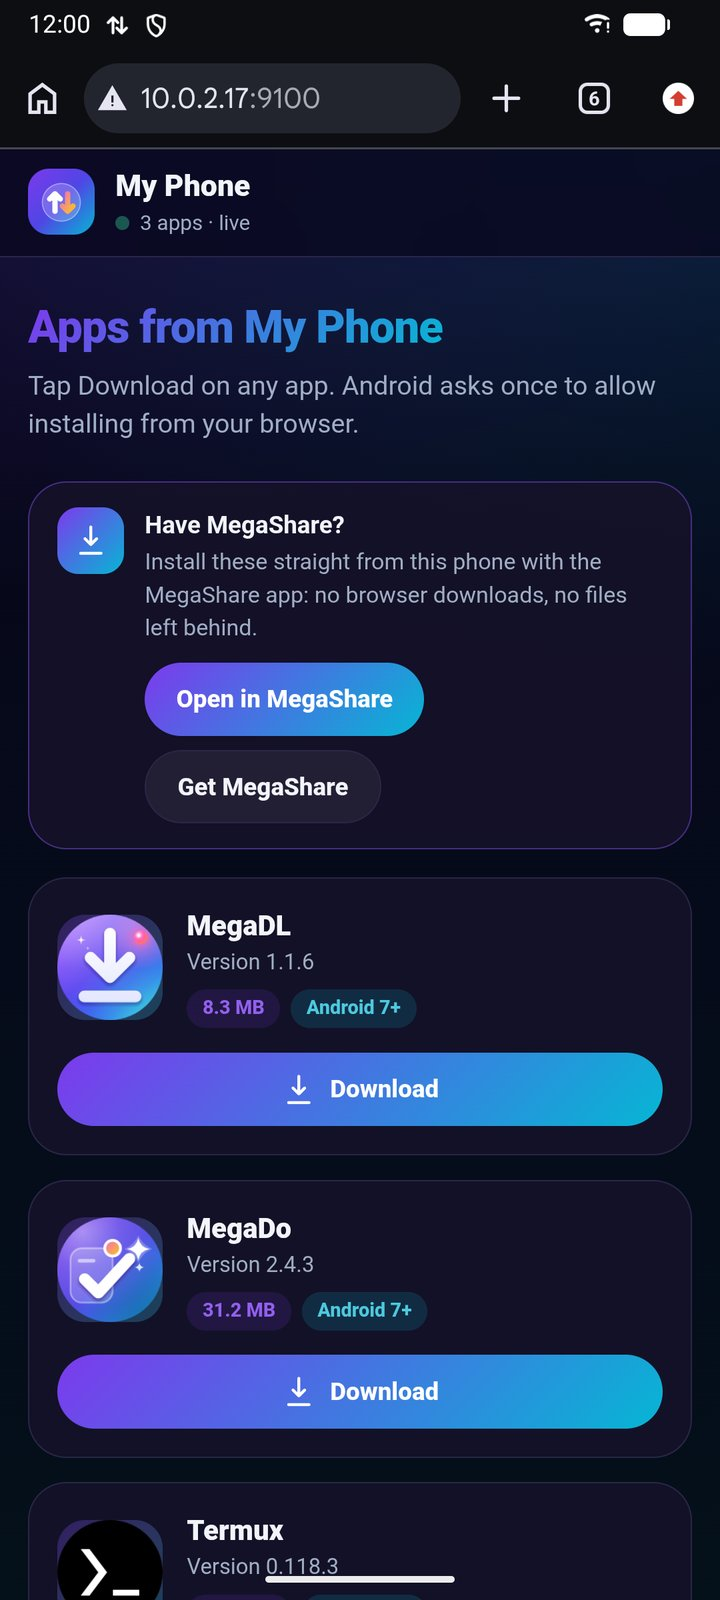
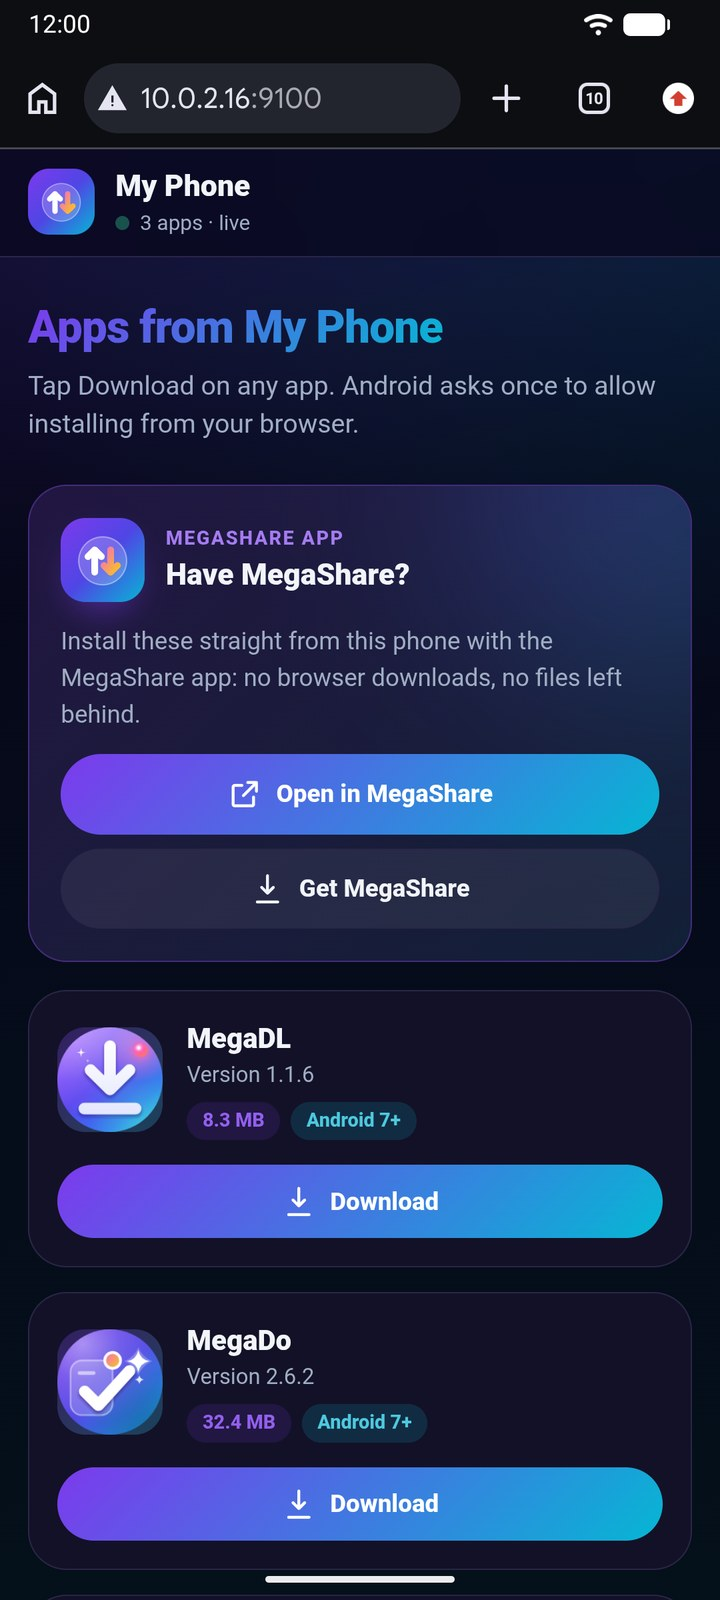
Website and README: share a text, App size, Android 17; new screenshots
- New feature card, FAQ entry (page and FAQPage data) and "How it works" mention
  for sharing a text, link or Wi-Fi password with a Copy button on the page.
- Themes card now covers App size (80-130 %) and the fixed layout scale.
- README features: text sharing, App size, Android 17 local-network access.
- Screenshots: new text.jpg and web-text.jpg; retook setup.jpg (Text option),
  themes.jpg (App size) and apps-web.jpg (redesigned "Have MegaShare?" card).
- llms.txt, llms-full.txt, sitemap and privacy policy (shared text) updated.

diff --git a/index.html b/index.html
@@ -4,8 +4,8 @@
 <meta charset="utf-8">
 <meta name="viewport" content="width=device-width, initial-scale=1">
 <title>MegaShare: Share files and apps from Android to any phone or PC, no app needed (free APK)</title>
-<meta name="description" content="MegaShare is a free Android app that shares files over Wi-Fi or hotspot with any phone, tablet or computer. The other side only needs a browser: scan a QR code, then download or upload files and folders. No internet, no account, no app on the other side. Watch videos and play music together in sync, share installed apps as APK, and install split APKs (APKS, XAPK, APKM) like SAI. An easier way than Quick Share. Download the free APK.">
-<meta name="keywords" content="MegaShare, file sharing app, share files Android to PC, Wi-Fi file transfer, hotspot file transfer, send files to iPhone, Quick Share alternative, Nearby Share alternative, no app needed, browser file transfer, QR code file sharing, local file server, APK download, share apps, APK extractor, app backup, split APK installer, SAI alternative, install APKS, install XAPK, install APKM, watch party, watch together, sync video, listen together">
+<meta name="description" content="MegaShare is a free Android app that shares files over Wi-Fi or hotspot with any phone, tablet or computer. The other side only needs a browser: scan a QR code, then download or upload files and folders, or copy a text you share. No internet, no account, no app on the other side. Watch videos and play music together in sync, share installed apps as APK, and install split APKs (APKS, XAPK, APKM) like SAI. An easier way than Quick Share. Download the free APK.">
+<meta name="keywords" content="MegaShare, file sharing app, share files Android to PC, Wi-Fi file transfer, hotspot file transfer, send files to iPhone, Quick Share alternative, Nearby Share alternative, no app needed, browser file transfer, QR code file sharing, local file server, APK download, share apps, APK extractor, app backup, split APK installer, SAI alternative, install APKS, install XAPK, install APKM, watch party, watch together, sync video, listen together, share text, send text to PC, share link, share Wi-Fi password">
 <link rel="canonical" href="https://megamind2999.github.io/MegaShareApk/">
 <link rel="icon" href="icon.png">
 <link rel="apple-touch-icon" href="icon.png">
@@ -38,7 +38,7 @@
    "@id": "https://megamind2999.github.io/MegaShareApk/#app",
    "name": "MegaShare",
    "alternateName": "MegaShare APK",
-   "description": "Free Android app that turns the phone into a local web file server. Any phone, tablet or computer on the same Wi-Fi or hotspot opens a link or scans a QR code and downloads or uploads files and folders in its browser, with no app on the other side and no internet. Also: watch videos and play music together in sync (watch party), share installed apps as APK or APKS, install split APKs (APKS, XAPK, APKM) like SAI, and back up apps.",
+   "description": "Free Android app that turns the phone into a local web file server. Any phone, tablet or computer on the same Wi-Fi or hotspot opens a link or scans a QR code and downloads or uploads files and folders in its browser, with no app on the other side and no internet. Also: share a text, link or Wi-Fi password that visitors copy with one tap, watch videos and play music together in sync (watch party), share installed apps as APK or APKS, install split APKs (APKS, XAPK, APKM) like SAI, and back up apps.",
    "applicationCategory": "UtilitiesApplication",
    "applicationSubCategory": "File transfer",
    "operatingSystem": "Android 7.0 or later",
@@ -66,6 +66,11 @@
     },
     {
      "@type": "ImageObject",
+     "url": "https://megamind2999.github.io/MegaShareApk/screenshots/web-text.jpg",
+     "caption": "A shared text with a Copy button in the browser"
+    },
+    {
+     "@type": "ImageObject",
      "url": "https://megamind2999.github.io/MegaShareApk/screenshots/party.jpg",
      "caption": "Watch party in sync"
     },
@@ -85,13 +90,16 @@
     "QR code and short link; no app, account or internet needed on the other side",
     "Visitors download single files, folders or a selection as zip, and upload files and whole folders",
     "Send, Receive or Both ways, with an optional PIN and a Block button for devices",
+    "Share a text, link, address or Wi-Fi password: visitors see it on the page and copy it with one tap",
     "Quick hotspot with a Wi-Fi QR code when there is no Wi-Fi",
     "Phone to phone download of everything shared, folders included, with resume",
     "Watch party: videos and music play in sync on every device, with chat, reactions and subtitles",
     "Share installed apps as APK, or split apps as APKS, to any browser or another MegaShare",
     "Install APK, APKS, XAPK and APKM files, picking the splits the phone needs, like SAI",
     "Back up apps to storage and install them again later",
-    "Shared clipboard, light, dark and AMOLED themes, 16 accent colors"
+    "Shared clipboard, light, dark and AMOLED themes, 16 accent colors",
+    "App size setting from 80 to 130 percent; layouts stay intact with any system font or display size",
+    "Ready for Android 17: asks for local-network access before sharing"
    ],
    "offers": {
     "@type": "Offer",
@@ -155,6 +163,14 @@
    "acceptedAnswer": {
     "@type": "Answer",
     "text": "Yes. Anything with a modern browser works: Safari, Chrome, Edge, Firefox and others. Only the phone that shares needs Android 7.0 or newer."
+   }
+  },
+  {
+   "@type": "Question",
+   "name": "Can I share a text, a link or a Wi-Fi password?",
+   "acceptedAnswer": {
+    "@type": "Answer",
+    "text": "Yes. On the Share tab, choose Text under “What to share”, then paste or type it and start sharing. Whoever opens the link or scans the QR code sees the text at the top of the page with a big Copy button, plus Open link when it is a single web address. Edits on your phone show up on the page within seconds, and the PIN protects it like your files."
    }
   },
   {
@@ -269,6 +285,7 @@
     <g id="i-palette" fill="none" stroke="currentColor" stroke-width="2" stroke-linecap="round" stroke-linejoin="round"><path d="M12 2a10 10 0 0 0 0 20c1.1 0 2-.9 2-2 0-.5-.2-1-.5-1.3-.3-.4-.5-.8-.5-1.3 0-1.1.9-2 2-2h2.3A5.7 5.7 0 0 0 22 9.7C22 5.4 17.5 2 12 2z"/><circle cx="7.5" cy="11" r="1"/><circle cx="10" cy="7" r="1"/><circle cx="15" cy="7" r="1"/></g>
     <g id="i-toggle" fill="none" stroke="currentColor" stroke-width="2" stroke-linecap="round" stroke-linejoin="round"><rect x="1" y="5" width="22" height="14" rx="7"/><circle cx="16" cy="12" r="3"/></g>
     <g id="i-refresh" fill="none" stroke="currentColor" stroke-width="2" stroke-linecap="round" stroke-linejoin="round"><path d="M23 4v6h-6M1 20v-6h6"/><path d="M3.5 9a9 9 0 0 1 14.85-3.36L23 10M1 14l4.64 4.36A9 9 0 0 0 20.49 15"/></g>
+    <g id="i-text" fill="none" stroke="currentColor" stroke-width="2" stroke-linecap="round" stroke-linejoin="round"><path d="M4 6h16M4 12h16M4 18h10"/></g>
     <g id="i-shield" fill="none" stroke="currentColor" stroke-width="2" stroke-linecap="round" stroke-linejoin="round"><path d="M12 22s8-4 8-10V5l-8-3-8 3v7c0 6 8 10 8 10z"/><path d="M9 12l2 2 4-4"/></g>
   </defs>
 </svg>
@@ -334,7 +351,7 @@
     <p class="lead">Your phone serves the files itself, straight over your local network. Nothing goes through the internet.</p>
   </section>
   <div class="steps">
-    <div class="step reveal"><h3>Pick what to share</h3><p>Choose a few files, a folder or the whole storage, and whether others can download, send you files, or both. Then tap ▶.</p></div>
+    <div class="step reveal"><h3>Pick what to share</h3><p>Choose a few files, a folder, the whole storage or just a text, and whether others can download, send you files, or both. Then tap ▶.</p></div>
     <div class="step reveal"><h3>Show the QR code</h3><p>They scan it with their camera or type the short address in any browser on the same Wi-Fi. No Wi-Fi? Start a hotspot from the app.</p></div>
     <div class="step reveal"><h3>They download or upload</h3><p>A clean file page opens: browse, preview photos and videos, download one file or everything as a zip, or send files and whole folders back.</p></div>
   </div>
@@ -347,13 +364,15 @@
       <figure><img src="screenshots/live.jpg" alt="Sharing screen with a big QR code and the address to type" loading="lazy"><figcaption>Scan or type the link</figcaption></figure>
       <figure class="web"><img src="screenshots/web-grid.jpg" alt="The visitor's browser showing shared photos in a grid with search, filters, upload and download all" loading="lazy"><figcaption>Their browser, no app</figcaption></figure>
       <figure class="web"><img src="screenshots/web-upload.jpg" alt="Uploading a large video from the browser, finished" loading="lazy"><figcaption>They send you files</figcaption></figure>
+      <figure><img src="screenshots/text.jpg" alt="Share tab with Text picked: an address, a Wi-Fi password and a link typed in to share" loading="lazy"><figcaption>Share a text</figcaption></figure>
+      <figure class="web"><img src="screenshots/web-text.jpg" alt="The visitor's browser showing the shared text with a big Copy button" loading="lazy"><figcaption>They copy it in one tap</figcaption></figure>
       <figure><img src="screenshots/activity.jpg" alt="Activity tab with live transfers to and from a Windows PC" loading="lazy"><figcaption>Live activity</figcaption></figure>
       <figure><img src="screenshots/receive.jpg" alt="Download from a phone: pick files from another phone running MegaShare and download them all" loading="lazy"><figcaption>Phone to phone</figcaption></figure>
       <figure><img src="screenshots/party.jpg" alt="Watch party on the phone: now playing with play, pause and seek for everyone, who is watching, and chat" loading="lazy"><figcaption>Watch party</figcaption></figure>
       <figure><img src="screenshots/party-player.jpg" alt="The party player: a song with its cover on a spinning record, live visualizer, reactions and chat" loading="lazy"><figcaption>Music together, in sync</figcaption></figure>
       <figure><img src="screenshots/apps.jpg" alt="Apps tab sharing three apps with a QR code: friends scan it and install them" loading="lazy"><figcaption>Share apps</figcaption></figure>
       <figure class="web"><img src="screenshots/apps-web.jpg" alt="The visitor's browser listing the shared apps with a Download button for each" loading="lazy"><figcaption>They download the APKs</figcaption></figure>
-      <figure><img src="screenshots/themes.jpg" alt="Appearance settings with light and dark themes and accent colors" loading="lazy"><figcaption>Make it yours</figcaption></figure>
+      <figure><img src="screenshots/themes.jpg" alt="Appearance settings: theme, App size, AMOLED and accent colors" loading="lazy"><figcaption>Make it yours</figcaption></figure>
     </div>
   </section>
 
@@ -371,6 +390,7 @@
     <div class="feature reveal"><div class="ico i-green"><svg viewBox="0 0 24 24"><use href="#i-save"/></svg></div><h3>Back up your apps</h3><p>Save any installed app as an APK, or an APKS for split apps, to Download/MegaShare/Apps. Install it again later from storage, or send it with any app.</p></div>
     <div class="feature reveal"><div class="ico i-violet"><svg viewBox="0 0 24 24"><use href="#i-swap"/></svg></div><h3>Send, receive or both</h3><p>Let people only download, only send you files, or both. Each switch (download, upload, rename, delete, hidden files) can change while you're sharing.</p></div>
     <div class="feature reveal"><div class="ico i-amber"><svg viewBox="0 0 24 24"><use href="#i-folder"/></svg></div><h3>Share exactly what you want</h3><p>A few picked files, one folder, or your whole storage including the SD card. Add or remove files while sharing, or use “Share” from any app.</p></div>
+    <div class="feature reveal"><div class="ico i-blue"><svg viewBox="0 0 24 24"><use href="#i-text"/></svg></div><h3>Share a text, link or password</h3><p>Paste an address, a Wi-Fi password, a code or a link. Everyone who scans the QR sees it on the page with a big Copy button, and Open link for a web address. Edit it and the page follows.</p></div>
     <div class="feature reveal"><div class="ico i-pink"><svg viewBox="0 0 24 24"><use href="#i-image"/></svg></div><h3>A real file page in the browser</h3><p>List and grid views, thumbnails, search in all subfolders, filters by type, a swipeable photo gallery and videos that play and skip right away.</p></div>
     <div class="feature reveal"><div class="ico i-orange"><svg viewBox="0 0 24 24"><use href="#i-up"/></svg></div><h3>Big uploads, whole folders</h3><p>Visitors drag and drop files or entire folders, with live progress and speed. Gigabyte videos are fine. Name clashes get “(2)” instead of overwriting.</p></div>
     <div class="feature reveal"><div class="ico i-green"><svg viewBox="0 0 24 24"><use href="#i-box"/></svg></div><h3>Download everything at once</h3><p>Grab a folder or any selection as one zip, made on the fly. No waiting for the phone to pack it first.</p></div>
@@ -379,7 +399,7 @@
     <div class="feature reveal"><div class="ico i-violet"><svg viewBox="0 0 24 24"><use href="#i-lock"/></svg></div><h3>You stay in control</h3><p>An optional PIN, a live list of connected devices with a Block button, and sharing that stops by itself when nobody has used it for a while.</p></div>
     <div class="feature reveal"><div class="ico i-amber"><svg viewBox="0 0 24 24"><use href="#i-clip"/></svg></div><h3>Shared clipboard</h3><p>Send a link, a Wi-Fi password or a note between your phone and the PC's browser in both directions. No more emailing yourself.</p></div>
     <div class="feature reveal"><div class="ico i-green"><svg viewBox="0 0 24 24"><use href="#i-toggle"/></svg></div><h3>Start from anywhere</h3><p>A start/stop button on every tab, a Quick Settings tile, and a notification with the link, live stats and “Add files”.</p></div>
-    <div class="feature reveal"><div class="ico i-pink"><svg viewBox="0 0 24 24"><use href="#i-palette"/></svg></div><h3>Stunning themes</h3><p>Light, dark and AMOLED, 16 accent colors with a matching app icon and loading screen, and 10 animated backgrounds, on phones and tablets.</p></div>
+    <div class="feature reveal"><div class="ico i-pink"><svg viewBox="0 0 24 24"><use href="#i-palette"/></svg></div><h3>Stunning themes, your size</h3><p>Light, dark and AMOLED, 16 accent colors with a matching app icon, 10 animated backgrounds, and App size from 80 to 130 %. Big system fonts or display zoom never squeeze the layout.</p></div>
   </div>
 
   <section id="network" class="reveal">
@@ -437,6 +457,7 @@
     <details><summary>Is MegaShare really free?</summary><p>Yes. It's free, with no ads, no subscriptions and no in-app purchases.</p></details>
     <details><summary>Does the other person need to install anything?</summary><p>No. They open the link or scan the QR code with their camera and use their normal browser, on any phone, tablet or computer. If they'd like the app too, they can install it from your phone through the “App” QR code.</p></details>
     <details><summary>Does it work with iPhone, Windows and Mac?</summary><p>Yes. Anything with a modern browser works: Safari, Chrome, Edge, Firefox and others. Only the phone that shares needs Android 7.0 or newer.</p></details>
+    <details><summary>Can I share a text, a link or a Wi-Fi password?</summary><p>Yes. On the Share tab, choose Text under “What to share”, then paste or type it and start sharing. Whoever opens the link or scans the QR code sees the text at the top of the page with a big Copy button, plus Open link when it is a single web address. Edits on your phone show up on the page within seconds, and the PIN protects it like your files.</p></details>
     <details><summary>Do I need internet or mobile data?</summary><p>No. Both devices just need to be on the same Wi-Fi, or one of them on the other's hotspot. Files never go over the internet, so no data is used.</p></details>
     <details><summary>Is it safe? Can strangers see my files?</summary><p>Only devices on the same network can open the page, only while sharing is on, and they only see what you picked. You can add a PIN, see every connected device and block it, turn off uploads or downloads at any time, and sharing stops by itself when nobody uses it.</p></details>
     <details><summary>Can I share without a password on the hotspot?</summary><p>Yes. Android doesn't let apps create an open hotspot by themselves, so the Quick hotspot gets a password, but MegaShare shows a Wi-Fi QR code so nobody types it. For an open network, choose “Phone hotspot” and set Security to “None” in your hotspot settings, or keep a simple 8-digit password.</p></details>

diff --git a/privacy.html b/privacy.html
@@ -28,7 +28,7 @@
 <header>
   <span class="eyebrow">MegaShare</span>
   <h1>Privacy Policy</h1>
-  <p>Last updated: November 22, 2026</p>
+  <p>Last updated: November 25, 2026</p>
 </header>
 <article>
 <p>MegaShare is an Android app that shares files from your phone with other devices on the same local network, in a browser. It has no accounts, no ads, no analytics and no server of its own. This page explains what data the app handles and where it goes.</p>
@@ -41,7 +41,7 @@
 <p>Files that others upload to you, or that you download from another phone running MegaShare, are saved in the folder you choose on your device (Download by default).</p>
 
 <h2>Activity and clipboard</h2>
-<p>The Activity screen lists connected devices (their local network address and browser name), transfers and shared clipboard text for your current and last sharing session. This stays on your phone and you can clear it at any time.</p>
+<p>The Activity screen lists connected devices (their local network address and browser name), transfers and shared clipboard text for your current and last sharing session. This stays on your phone and you can clear it at any time. A text you share (Share › Text) is kept on your phone until you clear it, and only people who open your sharing page see it, while sharing is on.</p>
 
 <h2>Permissions</h2>
 <ul>

diff --git a/README.md b/README.md
@@ -5,7 +5,7 @@
 <h1 align="center">MegaShare</h1>
 
 <p align="center"><b>Share files and apps from Android with any phone or computer. They only need a browser.</b><br>
-Wi-Fi or hotspot · QR code and link · download and upload in any browser · folders and big files · watch party · split APK installer and app backup · no internet, no account, no app on the other side</p>
+Wi-Fi or hotspot · QR code and link · download and upload in any browser · folders and big files · share a text or link · watch party · split APK installer and app backup · no internet, no account, no app on the other side</p>
 
 <p align="center">
   <a href="https://github.com/MegaMind2999/MegaShareApk/releases/latest/download/MegaShare.apk"><b>⬇ Download MegaShare.apk (latest)</b></a>
@@ -23,6 +23,8 @@ Wi-Fi or hotspot · QR code and link · download and upload in any browser · fo
 
 MegaShare turns your Android phone into a private file page on your Wi-Fi or hotspot. Pick what to share, show the QR code, and anyone on the same network opens it in their browser on an iPhone, Android, Windows, Mac or Linux device. They can browse, preview and download what you share, or send files and whole folders to you. Nothing to install on their side, and nothing goes through the internet.
 
+**Share a text:** paste an address, a Wi-Fi password, a code or a link. Everyone who scans the QR code sees it on the page and copies it with one tap.
+
 **Watch party:** pick movies or songs, friends scan the QR code, and everyone watches or listens together, in sync. When anyone pauses or skips, it happens for all.
 
 **Apps:** share installed apps with friends (they download the APK in any browser, or install it straight away with MegaShare), install split APKs (APKS, XAPK, APKM) like SAI, and back up your apps.
@@ -34,6 +36,8 @@ MegaShare turns your Android phone into a private file page on your Wi-Fi or hot
   <img src="screenshots/live.jpg" width="200" alt="QR code and link">
   <img src="screenshots/web-grid.jpg" width="200" alt="The visitor's browser">
   <img src="screenshots/web-upload.jpg" width="200" alt="Uploading from the browser">
+  <img src="screenshots/text.jpg" width="200" alt="Sharing a text">
+  <img src="screenshots/web-text.jpg" width="200" alt="Copying the shared text in the browser">
   <img src="screenshots/activity.jpg" width="200" alt="Live activity">
   <img src="screenshots/receive.jpg" width="200" alt="Download from another phone">
   <img src="screenshots/party.jpg" width="200" alt="Watch party on the phone">
@@ -48,6 +52,7 @@ MegaShare turns your Android phone into a private file page on your Wi-Fi or hot
 **Sharing**
 - Send, Receive or Both ways, with separate switches for download, upload, rename/new folder, delete and hidden files, all changeable while sharing
 - Share picked files, one folder, or the whole storage including the SD card; add or remove files while sharing, or use “Share” from any app
+- Share a text instead: paste or type a link, address, code or Wi-Fi password; visitors see it at the top of the page with a big Copy button (and “Open link” for a web address), and your edits show up live
 - Big QR code, full-screen QR, copy or send the link, and a choice of address when the phone has more than one network
 - Optional PIN, live list of devices with Block, auto-stop when idle, Quick Settings tile, start/stop button on every tab
 
@@ -86,6 +91,8 @@ MegaShare turns your Android phone into a private file page on your Wi-Fi or hot
 
 **Everything else**
 - Light, dark and AMOLED themes, 16 accent colors with a matching app icon and loading screen, 10 animated backgrounds; phone and tablet layouts
+- App size from 80 to 130 %; the phone's font size and display size can't break the layout any more
+- Ready for Android 17: asks for local-network access before sharing so other devices can connect
 - Updates itself from GitHub; on Android 12+ later updates install without a prompt, and never while you're sharing
 - Battery friendly: nothing runs when you're not sharing
 - Private: no accounts, ads, analytics or servers; files stay on your local network

diff --git a/screenshots/README.md b/screenshots/README.md
@@ -9,12 +9,14 @@ The visitor's side is Chrome on the same emulator. 720 px wide JPGs.
 | `live.jpg` | Sharing: QR code, address, network choice, Copy / Send link / App |
 | `web-grid.jpg` | Visitor's browser: grid of the shared photos with search, filters, Upload and Download all |
 | `web-upload.jpg` | Visitor's browser: a 1.5 GB video upload finished |
+| `text.jpg` | Share tab with Text picked: a sample address, Wi-Fi password and link |
+| `web-text.jpg` | Visitor's browser: the shared text with the Copy button |
 | `activity.jpg` | Activity tab: transfers to and from Chrome on Windows |
 | `receive.jpg` | Download from a phone: another phone's files, three ticked |
-| `themes.jpg` | Settings → Appearance: theme, AMOLED, 12 accents, app icon |
+| `themes.jpg` | Settings → Appearance: theme, App size, AMOLED, accents, app icon |
 | `party.jpg` | Party tab while a party runs: now playing (played by Sara), reactions, who is watching, chat |
 | `party-player.jpg` | Party player in the app: a song on the spinning record with the live visualizer, chat |
 | `apps.jpg` | Apps tab sharing three apps: QR code, address, the shared list |
-| `apps-web.jpg` | Visitor's browser: the shared apps, each with a Download button |
+| `apps-web.jpg` | Visitor's browser: the shared apps, each with a Download button, and the “Get the app” card |
 
 Retake them on the emulator when the UI changes noticeably; never use screenshots from a personal device.
